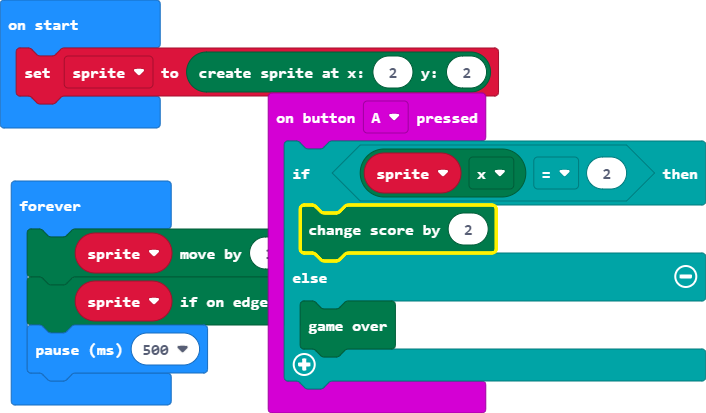
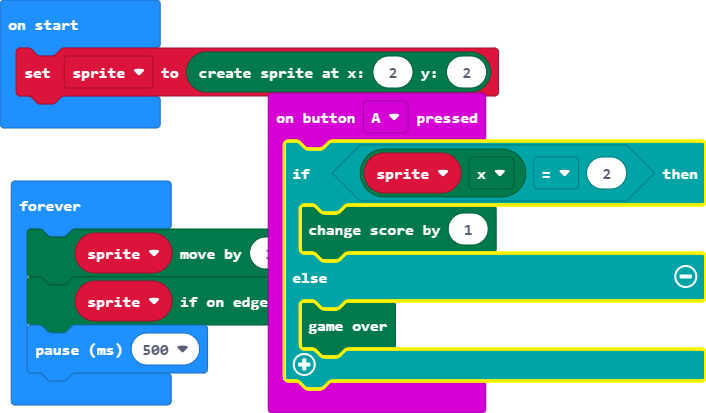
c

Changed region(s): [[0.3739, 0.3196, 1.0, 0.9588], [0.4363, 0.8426, 1.0, 0.9298]]

diff --git a/main.ts b/main.ts
@@ -1,6 +1,6 @@
 input.onButtonPressed(Button.A, function () {
     if (sprite.get(LedSpriteProperty.X) == 2) {
-        game.addScore(2)
+        game.addScore(1)
     } else {
         game.gameOver()
     }
